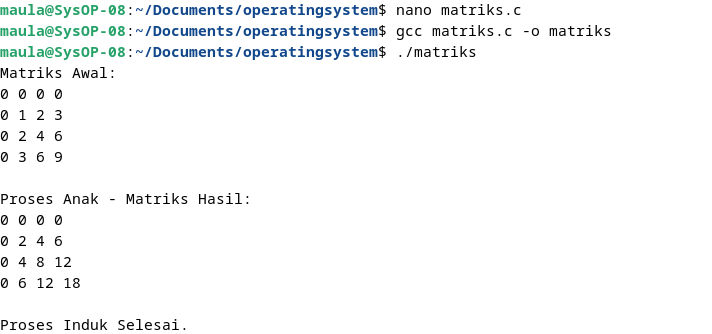
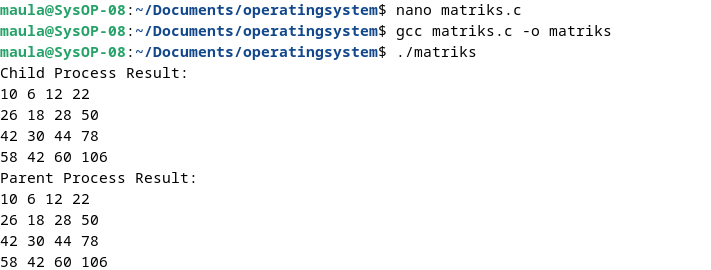
revisi matriks

diff --git a/week-7(UTS)/readme.md b/week-7(UTS)/readme.md
@@ -604,59 +604,8 @@ Setelah parent program memberikan output yang menyebutkan nomor PID nya dan nomo
 
 Source code
 
-```
-#include <stdio.h>
-#include <stdlib.h>
-#include <unistd.h>
-#include <sys/wait.h>
-
-#define ROWS 4
-#define COLS 4
-
-void printMatrix(int matrix[ROWS][COLS]) {
-    for (int i = 0; i < ROWS; i++) {
-        for (int j = 0; j < COLS; j++) {
-            printf("%d ", matrix[i][j]);
-        }
-        printf("\n");
-    }
-}
-
-int main() {
-    int matrix[ROWS][COLS];
-    int skalar = 2;
-
-    for (int i = 0; i < ROWS; i++) {
-        for (int j = 0; j < COLS; j++) {
-            matrix[i][j] = i * j;
-        }
-    }
-
-    printf("Matriks Awal:\n");
-    printMatrix(matrix);
-
-    pid_t pid = fork();
-
-    if (pid == 0) {
-        printf("\nProses Anak - Matriks Hasil:\n");
-        for (int i = 0; i < ROWS; i++) {
-            for (int j = 0; j < COLS; j++) {
-                matrix[i][j] *= skalar;
-                printf("%d ", matrix[i][j]);
-            }
-            printf("\n");
-        }
-    } else if (pid > 0) {
-        wait(NULL);
-        printf("\nProses Induk Selesai.\n");
-    } else {
-        fprintf(stderr, "Fork gagal.\n");
-        return 1;
-    }
-
-    return 0;
-}
-```
+![App Screenshot](img/nano-1.png)
+![App Screenshot](img/nano-2.png)
 
 Output Program
 
@@ -664,18 +613,10 @@ Output Program
 
 Analisa
 
-Program di atas adalah sebuah program C yang menggambarkan proses fork() dalam melakukan operasi perkalian skalar pada sebuah matriks dan menggunakan proses anak untuk melakukan operasi tersebut.
+Program diatas adalah sebuah program C yang mengalikan dua matriks 4x4 menggunakan proses fork untuk menciptakan proses anak dan proses induk. Program ini menggunakan fungsi `multiplyMatrices` untuk mengalikan dua matriks dan menyimpan hasilnya dalam matriks `result`, serta fungsi `printMatrix` untuk mencetak matriks ke layar.
 
-Fungsi `printMatrix` digunakan untuk mencetak matriks ke layar. Fungsi ini menerima sebuah matriks integer sebagai parameter dan mencetak setiap elemen matriks ke layar.
-
-Fungsi `main`
-- Matriks `matrix` diinisialisasi dengan nilai berdasarkan indeks baris dan kolomnya.
-- Matriks awal dicetak menggunakan fungsi `printMatrix`.
-- Program menggunakan `fork()` untuk membuat proses anak.
-  - Jika `pid == 0`, maka ini adalah proses anak. Proses anak akan melakukan perkalian skalar pada matriks.
-  - Jika `pid > 0`, maka ini adalah proses induk. Proses induk akan menunggu proses anak selesai.
-  - Jika `pid < 0`, maka fork() gagal dan program akan mencetak pesan kesalahan.
+Ketika program dijalankan, proses induk membuat proses anak dengan menggunakan `fork()`. Proses anak mengalikan dua matriks dan mencetak hasilnya ke layar dengan label "Child Process Result". Sementara itu, proses induk menunggu proses anak selesai menggunakan `wait(NULL)` dan setelah itu juga mengalikan dua matriks dan mencetak hasilnya ke layar dengan label "Parent Process Result".
 
 Kesimpulan
 
-Program ini mengilustrasikan cara kerja `fork()` untuk membuat proses baru. Proses anak dan proses induk membagi memori dan menjalankan kode yang sama. Proses anak melakukan operasi perkalian skalar pada matriks, sedangkan proses induk menunggu proses anak selesai dan mencetak pesan "Proses Induk Selesai".
+Program ini mengilustrasikan cara kerja `fork()` untuk membuat proses baru. Proses anak dan proses induk membagi memori dan menjalankan kode yang sama. Proses anak melakukan operasi perkalian skalar pada matriks, sedangkan proses induk menunggu proses anak selesai.
